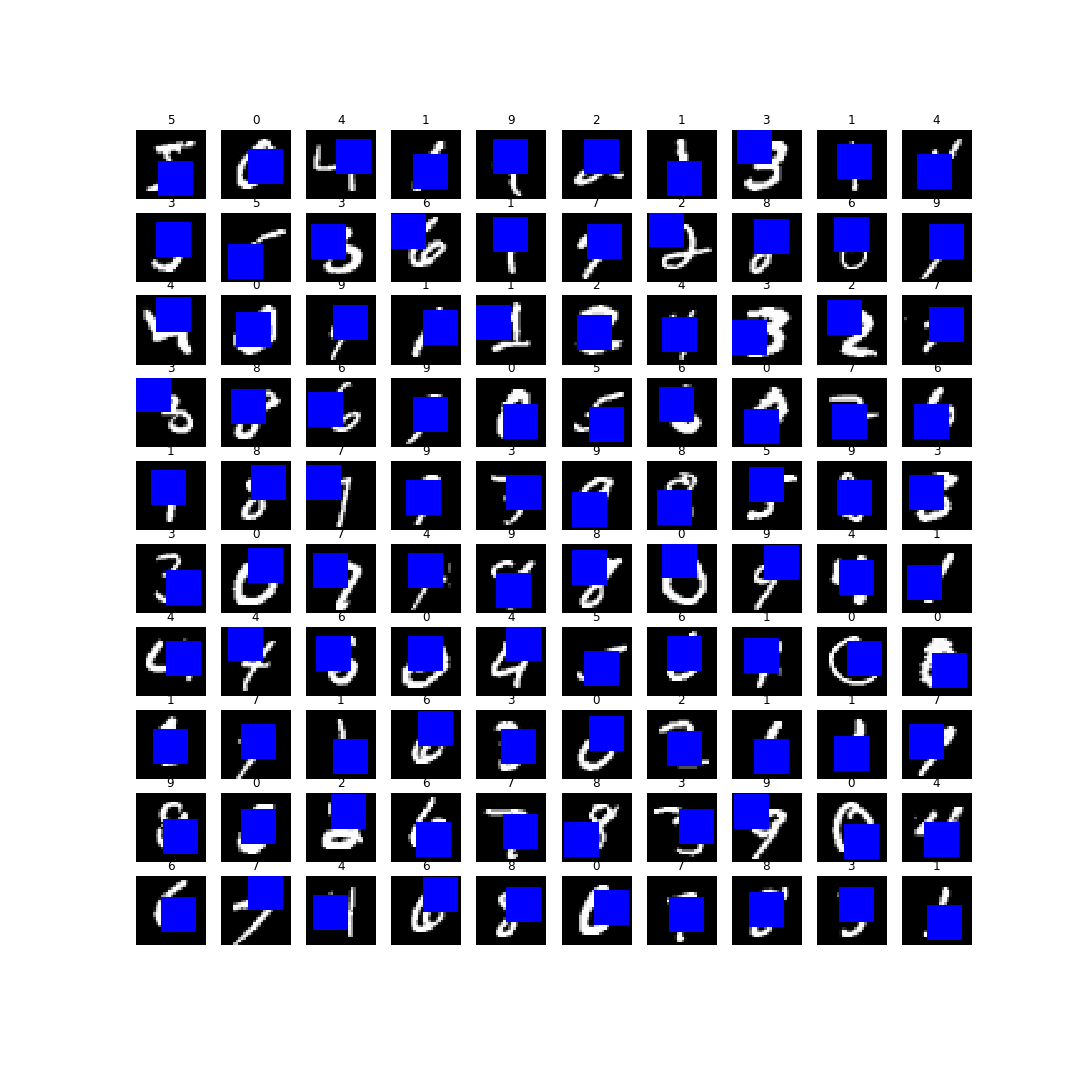
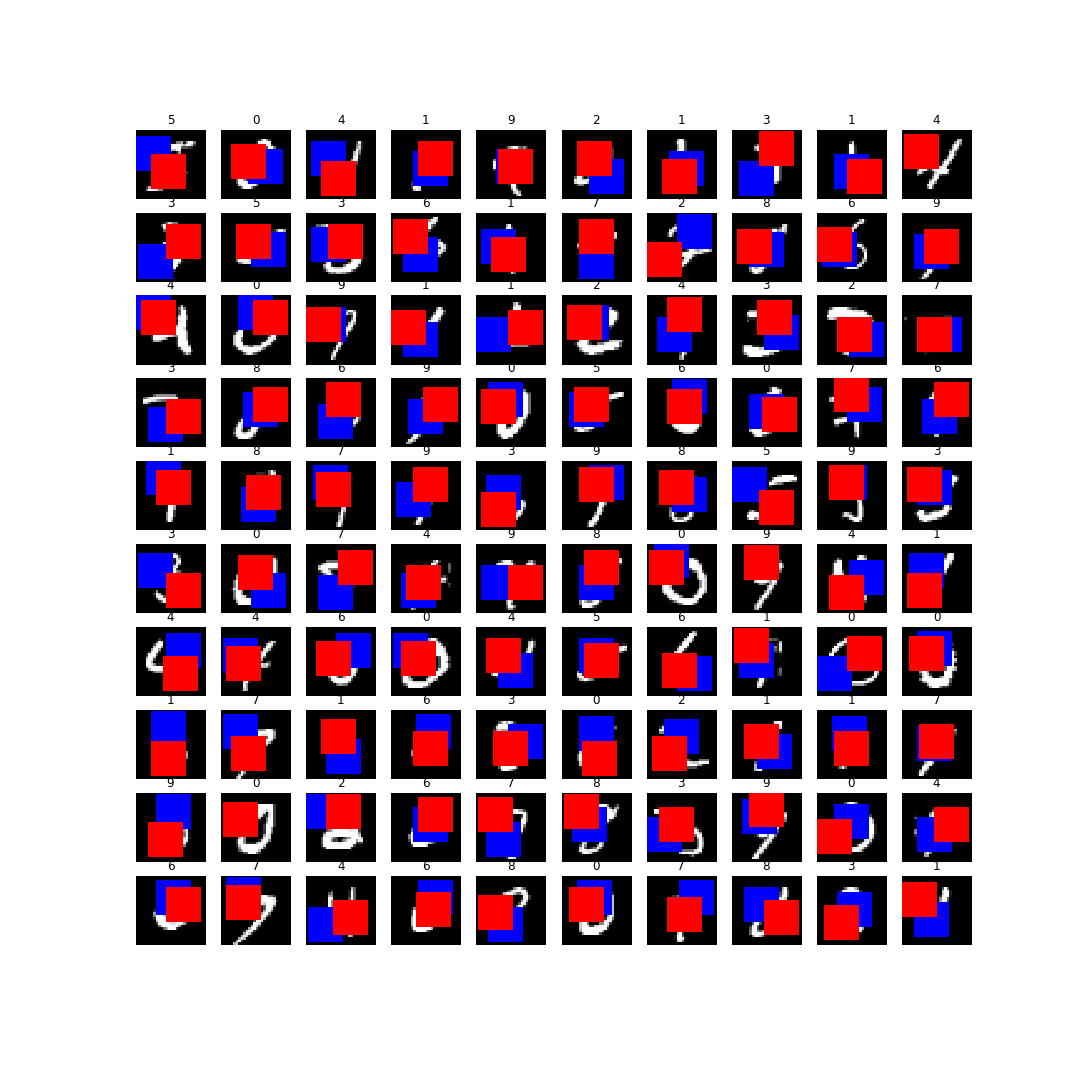
14x14 mnist

Changed region(s): [[0.1222, 0.1222, 0.9167, 0.8861]]

diff --git a/inpainting/inpainters/rgb_misgan.py b/inpainting/inpainters/rgb_misgan.py
@@ -94,13 +94,14 @@ class Imputer(nn.Module):
         self.transform = lambda x: torch.sigmoid(x)
 
     def forward(self, input, mask, noise):
-        net = input * mask + noise * (1 - mask)
+        net = input * mask
+        net = net + noise * (1- mask)
         net = self.imputer_net(net)
         net = self.transform(net)
         # NOT replacing observed part with input data for computing
         # autoencoding loss.
         # return input * mask + net * (1 - mask)
-        return net
+        return net, net
 
 
 class UNetImputer(Imputer):
@@ -122,12 +123,13 @@ class RGBMisganInpainterInterface(
         b, c, h, w = X.shape
         impu_noise = torch.empty(b, c, h, w, device=device)
         impu_noise.uniform_()
-
+        
         J_bhw = J.mean(dim=1) # flatten along channels dimension
-        _, m = self.imputer(X_masked, J_bhw, impu_noise)
+
+        _, m = self.imputer(X_masked, J, impu_noise)
 
         m = m.reshape(b, 1, -1)
         p = torch.ones(size=(b, 1,)).to(device)
-        a = torch.zeros(size=(b, 1, self.a_width, -1))
+        a = torch.zeros(size=(b, 1, self.a_width, c*h*w))
         d = torch.zeros_like(m)
         return p, m, a, d

diff --git a/inpainting/utils.py b/inpainting/utils.py
@@ -52,9 +52,11 @@ def predictions_for_entire_loader(
 ) -> List[Tuple[
     np.ndarray, ...
 ]]:
+    inpainter.to(device)
     results = []
     for i, ((x, j), y) in tqdm(enumerate(data_loader)):
         x, j, y = [t.to(device) for t in [x, j, y]]
+        print(x.shape)
         p, m, a, d = inpainter(x, j)
 
         for (x_, j_, y_, p_, m_, a_, d_) in zip(

diff --git a/inpainting/datasets/celeba.py b/inpainting/datasets/celeba.py
@@ -36,8 +36,8 @@ def train_val_datasets(
 
     val_transform = tr.Compose([
         tr.Lambda(lambda im: im.convert("RGB")),
-        tr.Resize((50,50)),
-        tr.CenterCrop((32,32)),
+        tr.Resize(resize_size),
+        tr.CenterCrop(crop_size),
         tr.ToTensor(),
         tr.Lambda(random_mask_fn(
             mask_configs=[
